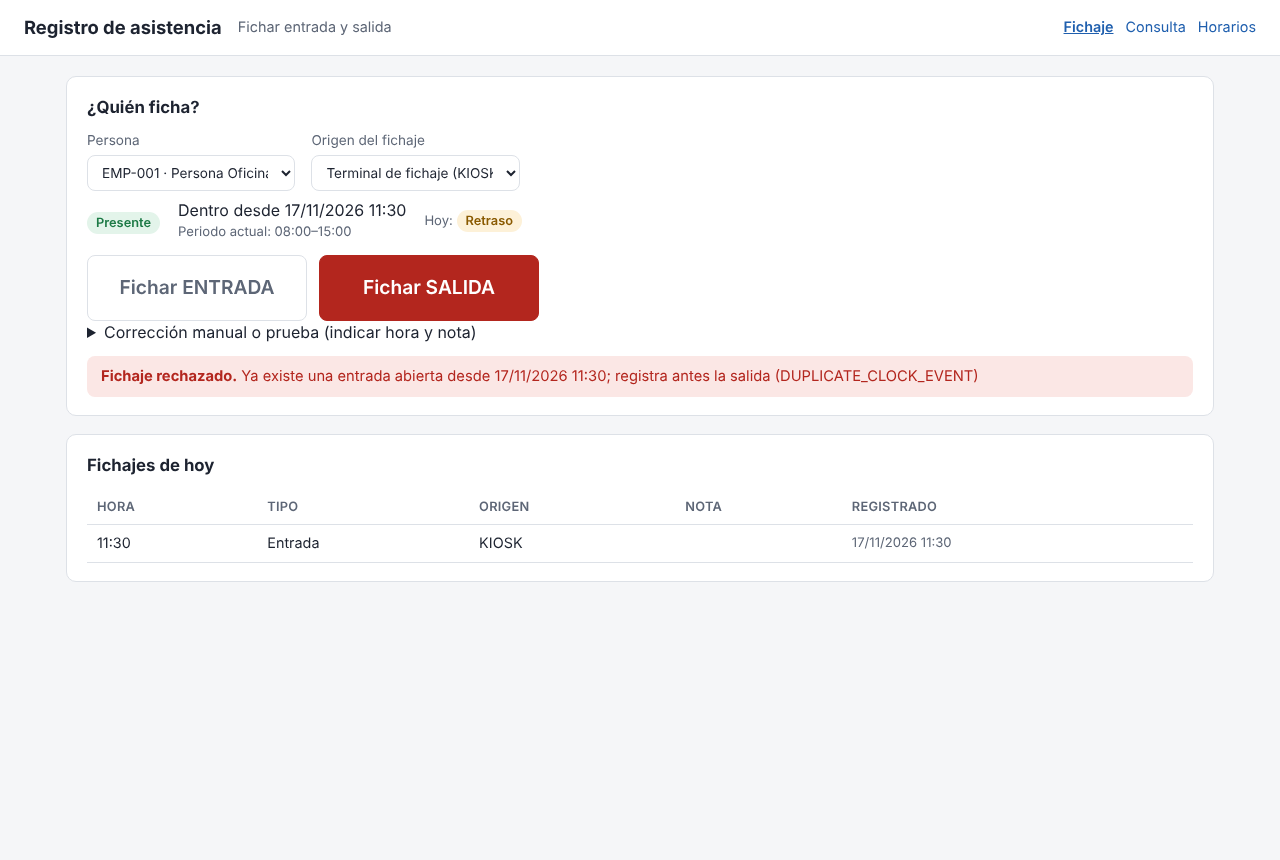
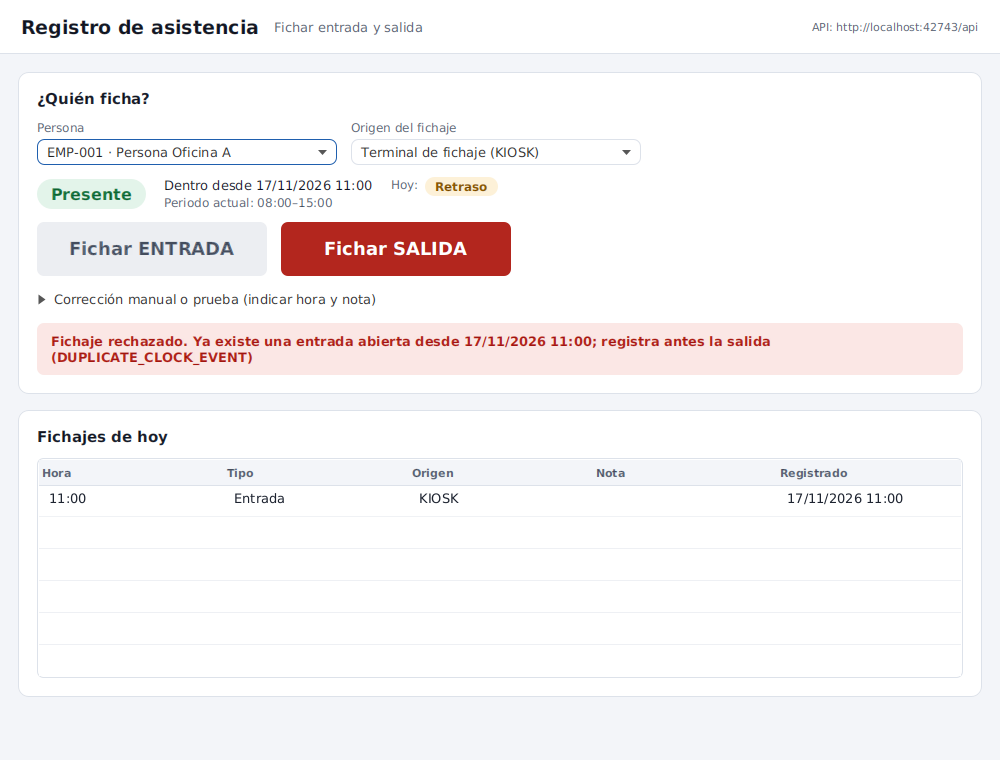
README, capturas y configuraciones de IntelliJ de las apps JavaFX
Claude-Session: https://claude.ai/code/session_01232Uny1AQviyGQ4KqUJ9Zz

diff --git a/README.md b/README.md
@@ -2,7 +2,7 @@
 
 Proyecto extraordinario de Ingeniería de Software 2 (EII, ULPGC). Sistema de control de presencia
 con un **backend HTTP/JSON** de arquitectura hexagonal, una **base de datos H2** y **tres aplicaciones
-frontend separadas**: registro de asistencia, consulta de presencia e incidencias, y definición de
+JavaFX independientes**: registro de asistencia, consulta de presencia e incidencias, y definición de
 horarios.
 
 ## Índice
@@ -40,13 +40,14 @@ localizadas), además de festivos e incidencias justificadas.
 |---|---|---|
 | JDK | **21 o superior** (se compila con `release 21`; funciona también con JDK 25/26) | Lenguaje y servidor HTTP del JDK (`com.sun.net.httpserver`) |
 | Maven | 3.9 o superior (IntelliJ IDEA ya lo incluye) | Compilación, pruebas y empaquetado |
-| Jackson (`jackson-databind`, `jackson-datatype-jsr310`) | 2.18.1 | JSON del contrato HTTP |
+| JavaFX (`javafx-controls`) | 21.0.5 | Interfaz de las tres aplicaciones (Maven la descarga; no hay que instalarla) |
+| Jackson (`jackson-databind`, `jackson-datatype-jsr310`) | 2.18.1 | JSON del contrato HTTP (backend y cliente de los frontends) |
 | H2 Database | 2.3.232 | Base de datos embebida en fichero |
 | JUnit Jupiter | 5.11.3 | Pruebas automatizadas |
+| TestFX + Monocle | 4.0.18 / 21.0.2 | Pruebas de interfaz JavaFX sin abrir ventanas (solo en pruebas) |
 
-No hacen falta servidores externos: la base de datos se crea sola en `./data/` y los frontends son
-HTML + JavaScript (módulos ES) servidos por un pequeño servidor Java. Solo se necesita un navegador.
-Node.js **no** es necesario (únicamente para el script opcional que regenera las capturas).
+No hacen falta servidores externos: la base de datos se crea sola en `./data/`. Las dependencias de
+JavaFX incluyen las librerías nativas del sistema donde se compila (Windows, macOS o Linux).
 
 ## 3. Cómo compilar y ejecutar
 
@@ -55,14 +56,15 @@ Node.js **no** es necesario (únicamente para el script opcional que regenera la
 1. *File → Open…* y selecciona la carpeta del repositorio (IntelliJ detecta el `pom.xml` multimódulo).
 2. *File → Project Structure → Project SDK*: un JDK 21 o superior.
 3. En el desplegable de ejecución aparecen las configuraciones compartidas de la carpeta `.run/`:
-   - **Sistema completo**: arranca backend y frontends a la vez.
-   - **Backend** (`software.ulpgc.presencia.BackendApplication`) y **Frontend**
-     (`software.ulpgc.presencia.frontend.FrontendServer`) por separado.
-   - **Todas las pruebas**: `mvn test` de los dos módulos.
-4. Abre <http://localhost:8081/>.
+   - **Sistema completo**: arranca el backend y las tres aplicaciones a la vez (las apps esperan
+     unos segundos a que el backend esté escuchando).
+   - **Backend** (`software.ulpgc.presencia.BackendApplication`).
+   - **App Fichaje**, **App Consulta** y **App Horarios** (`…frontend.<app>.<App>Launcher`).
+   - **Todas las pruebas**: `mvn test` de todos los módulos.
 
 Las configuraciones usan `$PROJECT_DIR$` como directorio de trabajo, por lo que la base de datos se
-crea en `<repositorio>/data/` (excluida de Git).
+crea en `<repositorio>/data/` (excluida de Git). Cada aplicación tiene una clase `…Launcher` que no
+extiende `Application`, así se ejecuta desde el classpath sin configurar el *module-path* de JavaFX.
 
 ### Desde la terminal
 
@@ -70,30 +72,40 @@ crea en `<repositorio>/data/` (excluida de Git).
 mvn clean package
 ```
 
+`mvn clean package` compila y ejecuta las 64 pruebas (las de interfaz se ejecutan sin ventanas) y
+genera un jar ejecutable por proceso. Cada uno se lanza en una terminal distinta:
+
 ```bash
-java -jar backend/target/presencia-backend.jar
+java -jar backend/target/presencia-backend-app.jar
 ```
 
 ```bash
-java -jar frontend/target/presencia-frontend.jar
+java -jar frontend/fichaje/target/presencia-fichaje-app.jar
 ```
 
-`mvn clean package` compila y ejecuta las 52 pruebas. Cada proceso se lanza en una terminal distinta y
-el backend se puede ejecutar de forma independiente (por ejemplo, para usar la API con `curl`). Sin
-empaquetar, también vale `mvn -pl backend compile exec:java` y `mvn -pl frontend compile exec:java`.
+```bash
+java -jar frontend/consulta/target/presencia-consulta-app.jar
+```
 
-| Aplicación | URL |
+```bash
+java -jar frontend/horarios/target/presencia-horarios-app.jar
+```
+
+El backend se ejecuta de forma independiente (se puede usar la API con `curl`). Sin empaquetar también
+vale `mvn -pl backend compile exec:java` y, para cada aplicación, `mvn -pl frontend/fichaje javafx:run`
+(después de un `mvn install -DskipTests`).
+
+| Proceso | Dirección |
 |---|---|
-| Inicio (enlaces a las tres apps) | <http://localhost:8081/> |
-| Registro de asistencia | <http://localhost:8081/fichaje/> |
-| Consulta de presencia e incidencias | <http://localhost:8081/consulta/> |
-| Definición de horarios | <http://localhost:8081/horarios/> |
-| API del backend | <http://localhost:8080/api/health> |
+| Backend (API HTTP/JSON) | <http://localhost:8080/api/health> |
+| Registro de asistencia | aplicación JavaFX `presencia-fichaje` |
+| Consulta de presencia e incidencias | aplicación JavaFX `presencia-consulta` |
+| Definición de horarios | aplicación JavaFX `presencia-horarios` |
 
 ### Configuración: puertos, base de datos y datos iniciales
 
-Los valores por defecto están en `backend/src/main/resources/application.properties` y
-`frontend/src/main/resources/frontend.properties`. Cada clave se puede sobrescribir con `-Dclave=valor`
+Los valores por defecto del backend están en `backend/src/main/resources/application.properties`;
+la URL de la API de las aplicaciones está en `ApiConfig` (por defecto `http://localhost:8080/api`). Cada clave se puede sobrescribir con `-Dclave=valor`
 o con una variable de entorno (mayúsculas y `_`), sin tocar el código ni usar rutas absolutas:
 
 | Clave | Variable de entorno | Por defecto | Descripción |
@@ -105,11 +117,10 @@ o con una variable de entorno (mayúsculas y `_`), sin tocar el código ni usar 
 | `presencia.db.user` / `presencia.db.password` | `PRESENCIA_DB_USER` / `PRESENCIA_DB_PASSWORD` | `sa` / vacío | Credenciales de la BD local de desarrollo |
 | `presencia.zone` | `PRESENCIA_ZONE` | `Atlantic/Canary` | Zona horaria de los horarios |
 | `presencia.seed` | `PRESENCIA_SEED` | `true` | Cargar datos de ejemplo si la BD está vacía |
-| `presencia.frontend.port` | `PRESENCIA_FRONTEND_PORT` | `8081` | Puerto de los frontends |
-| `presencia.api.url` | `PRESENCIA_API_URL` | `http://localhost:8080/api` | URL de la API que usan los frontends |
+| `presencia.api.url` | `PRESENCIA_API_URL` | `http://localhost:8080/api` | URL de la API que usan las tres aplicaciones |
 
-Ejemplo: `java -Dpresencia.http.port=9090 -jar backend/target/presencia-backend.jar` y
-`java -Dpresencia.api.url=http://localhost:9090/api -jar frontend/target/presencia-frontend.jar`.
+Ejemplo: `java -Dpresencia.http.port=9090 -jar backend/target/presencia-backend-app.jar` y
+`java -Dpresencia.api.url=http://localhost:9090/api -jar frontend/fichaje/target/presencia-fichaje-app.jar`.
 
 Para **empezar de cero** basta con borrar la carpeta `data/` con el backend parado.
 
@@ -133,29 +144,31 @@ También se cargan cuatro festivos del calendario y la historia de los últimos 
 
 ```mermaid
 flowchart LR
-    subgraph Navegador
-        F1["Registro de asistencia<br/>/fichaje/"]
-        F2["Consulta de presencia<br/>/consulta/"]
-        F3["Definición de horarios<br/>/horarios/"]
-        AC["shared/api-client.js<br/>(adaptador de comunicación)"]
-        F1 & F2 & F3 --> AC
+    subgraph Escritorio["Aplicaciones JavaFX (procesos independientes)"]
+        F1["presencia-fichaje<br/>Registro de asistencia"]
+        F2["presencia-consulta<br/>Consulta de presencia"]
+        F3["presencia-horarios<br/>Definición de horarios"]
+        C["presencia-frontend-comun<br/>PresenceApi + HttpPresenceApi<br/>(adaptador de comunicación) y estilo"]
+        F1 & F2 & F3 --> C
     end
-    FS["presencia-frontend<br/>servidor estático :8081<br/>(HTML, JS, /config.js)"]
     BE["presencia-backend<br/>API HTTP/JSON :8080"]
     DB[("H2 en fichero<br/>./data/presencia.mv.db")]
-    FS -. sirve ficheros .-> Navegador
-    AC -- "HTTP + JSON (contrato §10)<br/>cabecera X-Actor" --> BE
+    C -- "HTTP + JSON (contrato §10)<br/>cabecera X-Actor" --> BE
     BE -- JDBC --> DB
 ```
 
-- **Tres aplicaciones frontend diferenciadas**, cada una con su HTML y su módulo JavaScript. No
-  comparten estado; solo comparten el adaptador de comunicación y utilidades de presentación.
-- **Los frontends nunca acceden a la base de datos**: solo llaman a la API mediante
-  `HttpPresenceApi` (`frontend/src/main/resources/web/shared/api-client.js`). Las vistas no hacen
-  `fetch` ni conocen rutas HTTP; para cambiar de transporte o usar un mock basta con otro objeto con
-  los mismos métodos. La URL de la API se inyecta en tiempo de ejecución con `/config.js`.
+- **Tres aplicaciones frontend diferenciadas**: cada una es un módulo Maven y un proceso propio con su
+  ventana, su `Launcher` y su jar ejecutable. No comparten estado; solo comparten el módulo
+  `presencia-frontend-comun`.
+- **Los frontends nunca acceden a la base de datos**: solo usan la interfaz `PresenceApi`
+  (`frontend/comun/.../api/PresenceApi.java`). Su implementación `HttpPresenceApi` es el adaptador de
+  comunicación (cliente HTTP del JDK + Jackson); las vistas la reciben por constructor, por lo que se
+  puede sustituir (otra URL, un doble de prueba, otro protocolo) sin tocarlas. Los tipos del contrato
+  (`ApiModel`) son propios del frontend: no se reutilizan clases del backend.
+- **Las vistas no bloquean la interfaz**: todas las llamadas se hacen en segundo plano (`Background`)
+  y el resultado se muestra en el hilo de JavaFX.
 - **El backend no depende de los frontends**: es ejecutable de forma independiente y solo expone JSON.
-  Como frontends y backend están en puertos distintos, el backend responde a CORS.
+  (Las aplicaciones dependen del backend únicamente en sus pruebas, para probar contra el sistema real.)
 - **Base de datos**: H2 embebida en un fichero local; el esquema (`backend/src/main/resources/db/schema.sql`)
   se crea al arrancar.
 
@@ -202,7 +215,7 @@ sustituibles.
 control-presencia/
 ├── pom.xml                         POM padre (módulos backend y frontend, JDK 21)
 ├── .run/                           Configuraciones de ejecución de IntelliJ
-├── backend/
+├── backend/                        presencia-backend
 │   └── src/main/java/software/ulpgc/presencia/
 │       ├── BackendApplication.java Punto de entrada
 │       ├── Backend.java            Raíz de composición
@@ -217,14 +230,14 @@ control-presencia/
 │           ├── json/               Representación JSON de horarios
 │           ├── config/             AppConfig
 │           └── seed/               Datos de ejemplo
-├── frontend/
-│   ├── src/main/java/.../frontend/FrontendServer.java
-│   └── src/main/resources/web/
-│       ├── shared/ api-client.js · ui.js · styles.css
-│       ├── fichaje/                Registro de asistencia
-│       ├── consulta/               Consulta de presencia e incidencias
-│       └── horarios/               Definición de horarios
-└── docs/capturas/                  Capturas y script que las genera
+├── frontend/                       presencia-frontend (agregador)
+│   ├── comun/                      presencia-frontend-comun
+│   │   ├── .../frontend/api/       PresenceApi, HttpPresenceApi, ApiModel, ApiException, ApiConfig
+│   │   └── .../frontend/ui/        Ui, Badge, MessageBar, Texts, Background, presencia.css
+│   ├── fichaje/                    presencia-fichaje   (FichajeLauncher, FichajeApp, FichajeView)
+│   ├── consulta/                   presencia-consulta  (ConsultaLauncher, ConsultaApp, ConsultaView)
+│   └── horarios/                   presencia-horarios  (HorariosLauncher, HorariosApp, HorariosView, ScheduleForm)
+└── docs/capturas/                  Capturas de las tres aplicaciones
 ```
 
 | Clase | Responsabilidad |
@@ -239,7 +252,9 @@ control-presencia/
 | `IncidentJustificationService` | Justificación de incidencias (idea propia) |
 | `HttpApiServer`, `Router`, `ApiRoutes` | Adaptador HTTP y traducción de errores de dominio a códigos HTTP |
 | `Database`, `Jdbc*Repository`, `JdbcAuditTrail` | Persistencia JDBC con transacciones |
-| `HttpPresenceApi` (JS) | Adaptador de comunicación sustituible de los frontends |
+| `PresenceApi` / `HttpPresenceApi` | Puerto de comunicación de los frontends y su adaptador HTTP + JSON |
+| `FichajeView`, `ConsultaView`, `HorariosView`, `ScheduleForm` | Vistas JavaFX de cada aplicación (reciben `PresenceApi` y `Clock` por constructor) |
+| `Ui`, `Badge`, `MessageBar`, `Background` | Componentes visuales comunes, mensajes de error del contrato y llamadas en segundo plano |
 
 ## 7. Modelo de datos
 
@@ -383,7 +398,7 @@ Encapsuladas en `ClockingPolicy` (al fichar) y `AttendanceEvaluator` (al consult
 
 HTTP + JSON, prefijo `/api`, UTF-8. Las fechas son `AAAA-MM-DD`, las horas `HH:mm` y los instantes
 ISO-8601 con desplazamiento (`2026-11-17T08:05:00Z`). La cabecera opcional **`X-Actor`** identifica
-quién hace la operación para la auditoría (los frontends envían `app-fichaje`, `app-consulta` y
+quién hace la operación para la auditoría (las aplicaciones envían `app-fichaje`, `app-consulta` y
 `app-horarios`). Los `POST` exigen `Content-Type: application/json` y se rechazan campos desconocidos.
 
 | Método | Ruta | Cuerpo / parámetros | Respuesta |
@@ -476,8 +491,16 @@ y se permite la **corrección de olvidos** con un fichaje de origen `ADMIN` con 
 
 ## 12. Capturas
 
-Generadas con el sistema real en ejecución (backend + frontends) y los datos de ejemplo, mediante
-`docs/capturas/generar-capturas.cjs`.
+Generadas a partir de las aplicaciones JavaFX reales conectadas al backend real (con los datos de
+ejemplo y un reloj fijo en el martes 17/11/2026 a las 11:00) por las pruebas de interfaz:
+
+```bash
+mvn install -DskipTests
+```
+
+```bash
+mvn -pl frontend/fichaje,frontend/consulta,frontend/horarios test -Dcapturas.dir=$(pwd)/docs/capturas
+```
 
 ### Registro de asistencia
 
@@ -499,7 +522,7 @@ Informe por persona y periodo: esperado, trabajado, desviación e incidencias de
 
 ![Informe por persona y periodo](docs/capturas/consulta-informe.png)
 
-Incidencias de todas las personas, con una ya justificada.
+Incidencias de todas las personas, con una ya justificada desde la propia tabla.
 
 ![Incidencias](docs/capturas/consulta-incidencias.png)
 
@@ -509,17 +532,17 @@ Auditoría de modificaciones.
 
 ### Definición de horarios
 
-Horarios definidos de los cuatro tipos, asignaciones (por persona y por equipo), festivos y personas.
+Horarios definidos de los cuatro tipos y formulario de un horario corrido.
 
 ![Definición de horarios](docs/capturas/horarios.png)
 
-Formulario de turnos rotatorios.
+Formulario de turnos rotatorios (ciclo de días de trabajo y descanso).
 
 ![Formulario de turnos rotatorios](docs/capturas/horarios-turnos.png)
 
 ## 13. Verificación realizada
 
-### Pruebas automatizadas (`mvn test`: 52 pruebas, todas correctas)
+### Pruebas automatizadas (`mvn test`: 64 pruebas, todas correctas)
 
 | Clase de prueba | Qué verifica |
 |---|---|
@@ -529,15 +552,23 @@ Formulario de turnos rotatorios.
 | `UseCasesTest` (9) | Casos de uso con **adaptadores en memoria**: flujo completo, todos los errores de fichaje, prioridad persona/equipo, solapes de asignaciones, festivos, justificación única y auditoría |
 | `HttpApiIntegrationTest` (6) | Backend real (HTTP + H2 en fichero temporal): flujo de fichaje y consulta, **todos los códigos de error del contrato**, ida y vuelta de los 4 tipos de horario, **persistencia tras reiniciar**, carga única de datos iniciales y CORS |
 | `ArchitectureTest` (3) | Reglas de dependencia de la arquitectura hexagonal |
-| `FrontendServerTest` (3) | Las tres aplicaciones y el adaptador se sirven, `/config.js`, redirecciones y rutas no válidas |
+| `HttpPresenceApiContractTest` (5) | **Contrato frontend/backend**: el cliente de las aplicaciones contra el backend real (lectura, altas de los 4 tipos de horario, fichaje, justificación, códigos de error y backend caído) |
+| `FichajeViewTest` (3) | **Interfaz** de fichaje contra el backend real: entrada, duplicado, salida, `SCHEDULE_NOT_ASSIGNED`, `DATE_OUT_OF_PERIOD`, salida sin entrada y corrección manual de un olvido |
+| `ConsultaViewTest` (4) | **Interfaz** de consulta: presencia actual, informe por persona y periodo, filtro y justificación de incidencias, auditoría y fichajes por periodo |
+| `HorariosViewTest` (3) | **Interfaz** de horarios: alta de los cuatro tipos desde el formulario, validación de horas, personas, asignación a equipo, solape y festivos duplicados |
+
+Las pruebas de interfaz usan TestFX con Monocle (*headless*), así que no abren ventanas y se pueden
+ejecutar en cualquier equipo o en integración continua.
 
 ### Comprobaciones manuales (sistema completo desde una copia limpia)
 
-Realizadas con `mvn clean package`, los dos `java -jar` y un navegador (además del script de capturas):
+Realizadas con `mvn clean package`, el jar del backend y los tres jars de las aplicaciones:
 
 | Comprobación | Resultado |
 |---|---|
-| Backend y frontends arrancan desde una copia limpia y se comunican | ✔ |
+| Compila y pasan las pruebas desde un `git clone` limpio | ✔ |
+| El backend y las tres aplicaciones arrancan con `java -jar` y se comunican | ✔ |
+| Las apps esperan al backend si se arrancan a la vez (configuración *Sistema completo*) | ✔ cargan los datos al estar disponible |
 | Se cargan los tres tipos de horario de ejemplo (más la guardia localizada) | ✔ 5 horarios |
 | Horarios asignados a personas ficticias (individual y por equipo) | ✔ |
 | Entrada y salida correctas | ✔ |
@@ -552,7 +583,7 @@ Realizadas con `mvn clean package`, los dos `java -jar` y un navegador (además 
 | Datos incompletos / JSON incorrecto | ✔ 400 `INVALID_DATA` |
 | Guardia sin fechas desde el formulario | ✔ rechazada con mensaje |
 | Corrección de olvido: salida `ADMIN` con hora de ayer para EMP-004 | ✔ aceptada; `recordedAt` conserva la hora real |
-| Reinicio del backend: fichajes, horarios y auditoría persisten | ✔ mismos 49 fichajes y 5 horarios tras reiniciar |
+| Reinicio del backend: fichajes, horarios y auditoría persisten | ✔ |
 
 Para repetirlas a mano con `curl`:
 
@@ -565,7 +596,7 @@ curl -s -X POST localhost:8080/api/clock-events -H 'Content-Type: application/js
 - **Seguridad y permisos**: no hay autenticación ni roles; cualquiera con acceso a la API puede fichar
   por otra persona o definir horarios. `X-Actor` es declarativo (no verificado). Por eso el backend
   escucha por defecto solo en `localhost`. Un despliegue real necesitaría autenticación (p. ej. OIDC),
-  roles empleado/responsable y HTTPS; CORS está abierto (`*`) para facilitar el desarrollo local.
+  roles empleado/responsable y HTTPS.
 - **Concurrencia**: los fichajes de una misma persona se serializan con un cerrojo en memoria y las
   escrituras van en transacciones. Es correcto con **una sola instancia** del backend; varias instancias
   requerirían un bloqueo en base de datos.
@@ -578,8 +609,12 @@ curl -s -X POST localhost:8080/api/clock-events -H 'Content-Type: application/js
 - **Modificación de datos**: no hay edición ni borrado de horarios, asignaciones o personas (solo altas),
   ni corrección/anulación de fichajes más allá de añadir uno nuevo con hora indicada; un fichaje no
   puede ser anterior al último registrado.
-- **Zona horaria**: se usa una sola zona configurable para todos los centros. Los frontends calculan
-  "hoy" con la fecha del navegador.
+- **Zona horaria**: se usa una sola zona configurable para todos los centros. Las aplicaciones
+  calculan "hoy" con el reloj del equipo donde se ejecutan.
+- **Aplicaciones JavaFX**: no hay navegación entre las tres aplicaciones (son procesos separados) ni
+  actualización en tiempo real salvo la presencia actual (cada 30 s). Al ejecutarlas desde el
+  classpath JavaFX muestra el aviso `Unsupported JavaFX configuration: classes were loaded from
+  'unnamed module'`, que es inofensivo. El backend mantiene CORS por si se añade un cliente web.
 - **Escalabilidad**: las consultas cargan los datos de la persona y evalúan en memoria (adecuado para
   cientos de personas, no para miles con rangos largos); el rango de consulta está limitado a 366 días.
 - **Datos**: todos los datos de ejemplo son ficticios. La base de datos se genera localmente en `data/`
